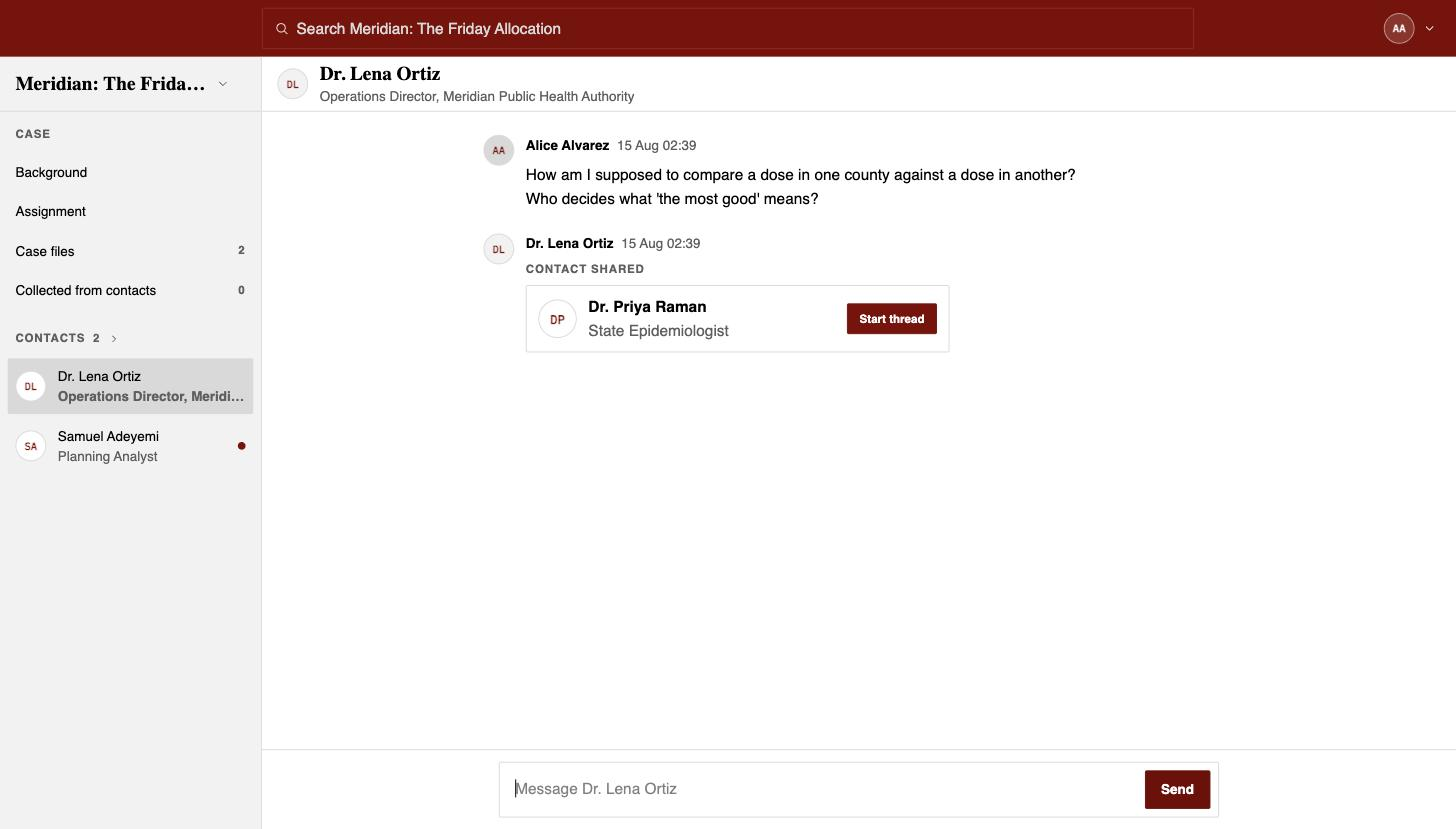
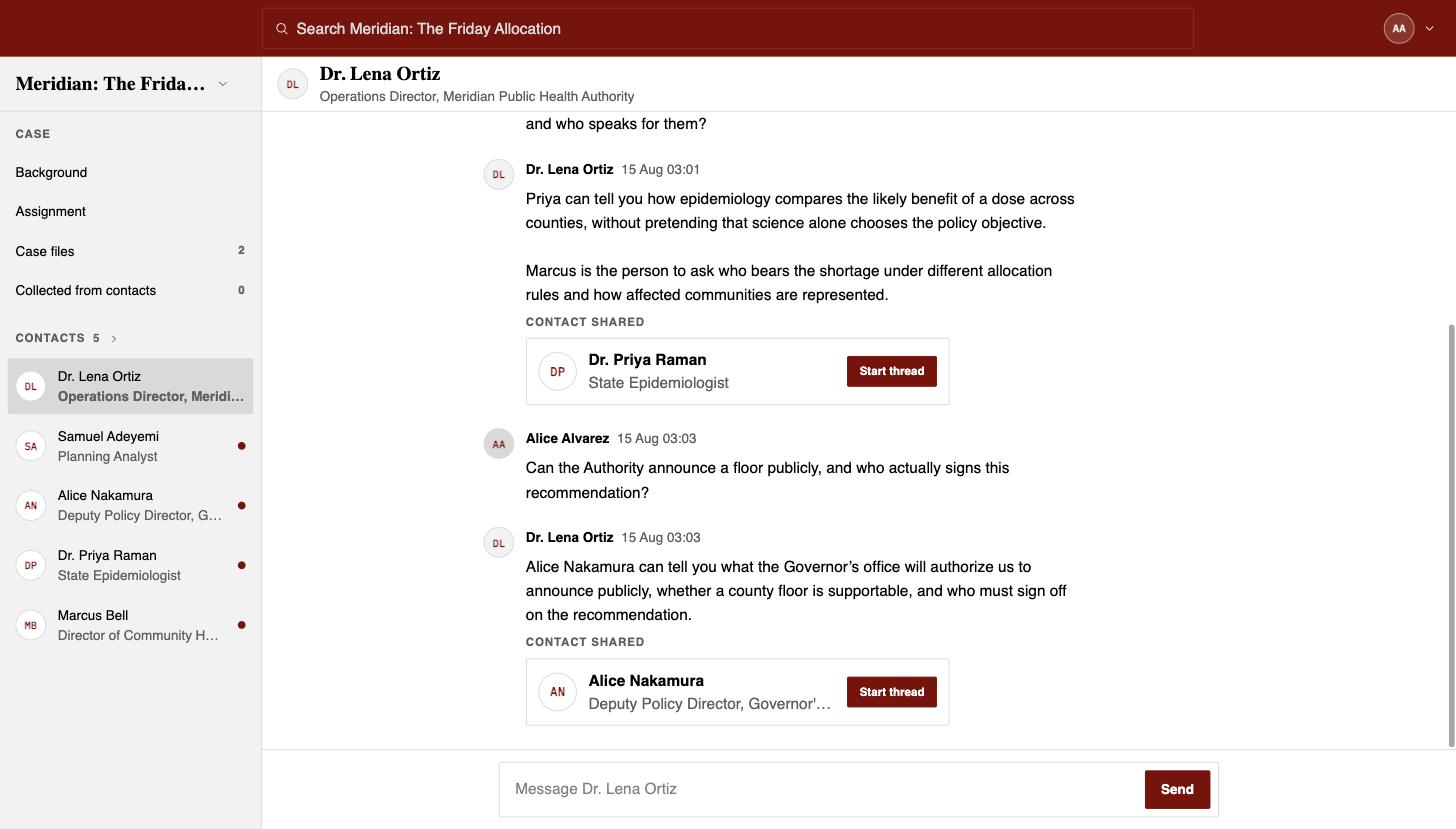
Let a contact say why they are sending you on
The introduce tool asks for a sentence in the contact's own voice, and
nothing ever read it back out. A model that introduces someone usually
writes no prose beside the tool call, so the student got a contact card
under an empty bubble -- a handoff from nobody, with no reason to prefer
the new person over the seven other things they could do next.

That sentence is now the reply when there is no prose. Prose still wins
when the contact wrote any, because saying it twice reads worse than
either alone. Both provider adapters carry the reasons through, so the
rule lives in one place: Reply#spoken_text, which the student transcript
and the author's rehearsal both go through.

Fixing that surfaced a second one. A message carries a single contact
card, and it was filled from the first id in the reply. Contacts re-name
people the student already knows constantly, so a turn that mentioned an
old colleague and introduced a new one drew a card for the old one and
none for the new -- the one turn where something was actually earned was
the one that looked like nothing happened. The card now prefers a contact
this turn genuinely introduced.

A turn introducing two new people still shows only the first. That needs
the message to hold many introductions rather than one, which is a
migration, and is worth doing separately.

Carries the default model with it, because the screenshots in the guide
had to be retaken and these are what they show. The deployment default --
[…]

diff --git a/test/models/contact_reply_test.rb b/test/models/contact_reply_test.rb
@@ -161,6 +161,52 @@ class ContactReplyTest < ActiveSupport::TestCase
     assert_equal @priya, message.introduced_contact
   end
 
+  # The introduce tool asks for a sentence in the contact's own voice, and a
+  # model that introduces someone often writes no prose beside it. Dropping that
+  # sentence is what left a contact card sitting under an empty bubble, as
+  # though the handoff arrived from nobody.
+  test "an introduction with no prose speaks the reason the contact gave" do
+    Referral.create!(referring_contact: @dana, referred_contact: @priya, condition: "When asked.")
+    ask "Who else?"
+
+    responder = wordless(introduced_contact_ids: [@priya.id],
+      introduction_reasons: ["Priya ran the plant when this started; go and ask her."])
+    message = ContactReply.new(@conversation, responder: responder).generate!
+
+    assert_equal "Priya ran the plant when this started; go and ask her.", message.body
+    assert_equal @priya, message.introduced_contact
+  end
+
+  # Contacts re-name people the student already knows all the time, and a turn
+  # that does both has one card to spend. Spending it on the colleague already
+  # in the directory hides the only thing that was actually earned.
+  test "the card names somebody new rather than somebody already met" do
+    marcus = Contact.create!(full_name: "Marcus Bell", role_title: "Director of Community Health Equity",
+      system_prompt: "You know who gets left short.", case_study: @case_study)
+    Referral.create!(referring_contact: @dana, referred_contact: @priya, condition: "When asked.")
+    Referral.create!(referring_contact: @dana, referred_contact: marcus, condition: "When fairness comes up.")
+    Introduction.create!(enrollment: @conversation.enrollment, contact: @priya, introducing_contact: @dana)
+    ask "Who is left short?"
+
+    responder = wordless(introduced_contact_ids: [@priya.id, marcus.id])
+    message = ContactReply.new(@conversation, responder: responder).generate!
+
+    assert_equal marcus, message.introduced_contact,
+      "Priya was already in the directory; Marcus is what this turn earned"
+  end
+
+  test "prose the contact wrote wins over the tool's reason" do
+    Referral.create!(referring_contact: @dana, referred_contact: @priya, condition: "When asked.")
+    ask "Who else?"
+
+    responder = spoken("Margin fell because we changed over more often.",
+      introduced_contact_ids: [@priya.id], introduction_reasons: ["Go and ask Priya."])
+    message = ContactReply.new(@conversation, responder: responder).generate!
+
+    assert_equal "Margin fell because we changed over more often.", message.body,
+      "saying it twice reads worse than either on its own"
+  end
+
   test "a turn that carried nothing at all still says so" do
     ask "Anything?"
 
@@ -171,13 +217,19 @@ class ContactReplyTest < ActiveSupport::TestCase
 
   private
 
-  def wordless(introduced_contact_ids: [], shared_document_ids: [])
+  def wordless(introduced_contact_ids: [], shared_document_ids: [], introduction_reasons: [])
+    spoken("", introduced_contact_ids: introduced_contact_ids,
+      shared_document_ids: shared_document_ids, introduction_reasons: introduction_reasons)
+  end
+
+  def spoken(text, introduced_contact_ids: [], shared_document_ids: [], introduction_reasons: [])
     Class.new {
       def initialize(reply) = @reply = reply
 
       def reply(briefing:, history:, on_delta: nil) = @reply
     }.new(Responder::Reply.new(
-      text: "", introduced_contact_ids: introduced_contact_ids, shared_document_ids: shared_document_ids
+      text: text, introduced_contact_ids: introduced_contact_ids,
+      shared_document_ids: shared_document_ids, introduction_reasons: introduction_reasons
     ))
   end
 end

diff --git a/app/models/responder.rb b/app/models/responder.rb
@@ -16,15 +16,33 @@ module Responder
   # What a contact said, plus the structured things they did while saying it.
   # The id lists are normalized here so no adapter can hand the pipeline a nil,
   # and every caller can iterate without guarding.
-  Reply = Data.define(:text, :introduced_contact_ids, :shared_document_ids, :usage, :raw) do
-    def initialize(text:, introduced_contact_ids: [], shared_document_ids: [], usage: NULL_USAGE, raw: nil)
+  Reply = Data.define(:text, :introduced_contact_ids, :shared_document_ids,
+    :introduction_reasons, :usage, :raw) do
+    def initialize(text:, introduced_contact_ids: [], shared_document_ids: [],
+      introduction_reasons: [], usage: NULL_USAGE, raw: nil)
       super(
         text: text.to_s,
         introduced_contact_ids: Array(introduced_contact_ids).compact.uniq,
         shared_document_ids: Array(shared_document_ids).compact.uniq,
+        introduction_reasons: Array(introduction_reasons).map { |line| line.to_s.strip }.reject(&:empty?),
         usage: usage,
         raw: raw
       )
+    end
+
+    # What this person actually said out loud.
+    #
+    # Introducing someone is a tool call, and a model that makes one often
+    # writes no prose alongside it — which used to reach the student as a
+    # contact card under an empty bubble, as though the handoff came from
+    # nowhere. The tool asks for a sentence in the contact's own voice for
+    # exactly this reason, so when there is no prose, that sentence is the
+    # reply. Prose wins when there is any: saying it twice is worse than
+    # either.
+    def spoken_text
+      return text if text.present?
+
+      introduction_reasons.join("\n\n")
     end
   end
 
@@ -40,13 +58,25 @@ module Responder
     "fake" => ->(**) { Fake.new }
   }.freeze
 
-  DEFAULT_ADAPTER = "anthropic".freeze
+  DEFAULT_ADAPTER = "openai".freeze
 
   class << self
     attr_writer :current
 
+    # The deployment default: the catalogue's default model at its stated
+    # effort, as long as RESPONDER still names that model's provider. Flipping
+    # RESPONDER to the other provider is a wholesale escape hatch, and it gets
+    # that provider's own defaults rather than an effort chosen for a different
+    # model.
     def current
-      @current ||= build(configured_name)
+      @current ||= begin
+        entry = ModelCatalogue.default
+        if entry && configured_name == entry.provider
+          build(entry.provider, model: entry.id, effort: ModelCatalogue::DEFAULT_EFFORT)
+        else
+          build(configured_name)
+        end
+      end
     end
 
     # Swap the responder for the duration of a block. Used by tests that want

diff --git a/app/models/contact_reply.rb b/app/models/contact_reply.rb
@@ -94,7 +94,7 @@ class ContactReply
   # file card tells the student the reply failed when they just got what they
   # asked for. Only a turn that carried nothing at all gets that.
   def body_for(reply)
-    return reply.text if reply.text.present?
+    return reply.spoken_text if reply.spoken_text.present?
     return "" if reply.introduced_contact_ids.any? || reply.shared_document_ids.any?
 
     I18n.t("threads.no_answer")
@@ -106,16 +106,26 @@ class ContactReply
   # narrows what can be recorded.
   def record_introductions(reply, briefing, message)
     allowed = briefing.referable_contacts.index_by(&:id)
+    newly_met = []
+    first_named = nil
 
     reply.introduced_contact_ids.each do |contact_id|
       introduced = allowed[contact_id]
       raise RuleViolation, "#{contact.full_name} cannot introduce #{contact_id}" if introduced.nil?
 
-      Introduction.find_or_create_by!(enrollment: enrollment, contact: introduced) do |introduction|
-        introduction.introducing_contact = contact
+      first_named ||= introduced
+      introduction = Introduction.find_or_create_by!(enrollment: enrollment, contact: introduced) do |row|
+        row.introducing_contact = contact
       end
-      message.update!(introduced_contact: introduced) if message.introduced_contact_id.nil?
+      newly_met << introduced if introduction.previously_new_record?
     end
+
+    # The message carries one contact card, so it should name somebody the
+    # student has not already met. Naming whoever came first drew a card for an
+    # old colleague and none for the new one on any turn that mentioned both,
+    # which reads as though nothing was earned.
+    card = newly_met.first || first_named
+    message.update!(introduced_contact: card) if card
   end
 
   def record_shares(reply, briefing, message)

diff --git a/app/models/responder/open_ai.rb b/app/models/responder/open_ai.rb
@@ -13,7 +13,10 @@ module Responder
   #   whose `arguments` is a JSON *string*.
   # - Cached tokens live at `usage.input_tokens_details.cached_tokens`.
   class OpenAI
-    MODEL = "gpt-5.6".freeze
+    # Only reached by a caller that builds this adapter without naming a model;
+    # the deployment default comes from the catalogue. Kept in step with it so
+    # no path can land on an id no entry describes.
+    MODEL = ModelCatalogue::DEFAULT_ID
 
     def initialize(client: nil, model: MODEL, effort: nil)
       @client = client
@@ -94,14 +97,15 @@ module Responder
 
       Reply.new(
         text: response.output_text.to_s.strip,
-        introduced_contact_ids: ids_from(calls, ContactBriefing::INTRODUCE_TOOL, :contact_id),
-        shared_document_ids: ids_from(calls, ContactBriefing::SHARE_TOOL, :document_ids),
+        introduced_contact_ids: values_from(calls, ContactBriefing::INTRODUCE_TOOL, :contact_id),
+        shared_document_ids: values_from(calls, ContactBriefing::SHARE_TOOL, :document_ids),
+        introduction_reasons: values_from(calls, ContactBriefing::INTRODUCE_TOOL, :reason),
         usage: usage_from(response.usage),
         raw: response.to_h
       )
     end
 
-    def ids_from(calls, tool_name, key)
+    def values_from(calls, tool_name, key)
       calls
         .select { |call| call.name.to_s == tool_name }
         .flat_map { |call| Array(arguments_for(call)[key]) }

diff --git a/app/models/responder/fake.rb b/app/models/responder/fake.rb
@@ -42,10 +42,13 @@ module Responder
       # including the join behavior that decides whether spaces survive.
       text.scan(/\S+\s*/).each { |chunk| on_delta.call(chunk) } if on_delta
 
+      referrals = triggered_referrals(briefing, prompt)
+
       Reply.new(
         text: text,
-        introduced_contact_ids: triggered_referral_ids(briefing, prompt),
+        introduced_contact_ids: referrals.map(&:referred_contact_id),
         shared_document_ids: triggered_document_ids(briefing, prompt),
+        introduction_reasons: referrals.map { |r| "You want #{r.referred_contact.full_name} for that." },
         usage: Usage.new(
           input_tokens: 100, output_tokens: 40,
           cache_read_tokens: (history.size > 1) ? 80 : 0,
@@ -62,10 +65,8 @@ module Responder
       "Let me take that one."
     end
 
-    def triggered_referral_ids(briefing, prompt)
-      briefing.send(:referrals).filter_map do |referral|
-        referral.referred_contact_id if matches?(referral.condition, prompt)
-      end
+    def triggered_referrals(briefing, prompt)
+      briefing.send(:referrals).select { |referral| matches?(referral.condition, prompt) }
     end
 
     def triggered_document_ids(briefing, prompt)

diff --git a/test/models/model_catalogue_test.rb b/test/models/model_catalogue_test.rb
@@ -11,6 +11,20 @@ class ModelCatalogueTest < ActiveSupport::TestCase
     end
   end
 
+  # Most stakeholders will never have a model picked for them, so the default is
+  # the entry that answers most often. A default naming an id no entry describes
+  # is one the cost report cannot price and the effort list cannot validate.
+  test "the deployment default is a real catalogued model" do
+    assert_not_nil ModelCatalogue.default, "#{ModelCatalogue::DEFAULT_ID} is not in the catalogue"
+    assert_equal Responder::DEFAULT_ADAPTER, ModelCatalogue.default.provider,
+      "RESPONDER's default provider and the default model must not drift apart"
+  end
+
+  test "the default effort is one the default model accepts" do
+    assert_includes ModelCatalogue.efforts_for(ModelCatalogue::DEFAULT_ID),
+      ModelCatalogue::DEFAULT_EFFORT
+  end
+
   test "the model implies its provider, so the two cannot disagree" do
     assert_equal "anthropic", ModelCatalogue.find("claude-opus-5").provider
     assert_equal "openai", ModelCatalogue.find("gpt-5.6-luna").provider

diff --git a/app/models/responder/anthropic.rb b/app/models/responder/anthropic.rb
@@ -96,14 +96,15 @@ module Responder
 
       Reply.new(
         text: text,
-        introduced_contact_ids: ids_from(tool_uses, ContactBriefing::INTRODUCE_TOOL, :contact_id),
-        shared_document_ids: ids_from(tool_uses, ContactBriefing::SHARE_TOOL, :document_ids),
+        introduced_contact_ids: values_from(tool_uses, ContactBriefing::INTRODUCE_TOOL, :contact_id),
+        shared_document_ids: values_from(tool_uses, ContactBriefing::SHARE_TOOL, :document_ids),
+        introduction_reasons: values_from(tool_uses, ContactBriefing::INTRODUCE_TOOL, :reason),
         usage: usage_from(message.usage),
         raw: message.to_h
       )
     end
 
-    def ids_from(tool_uses, tool_name, key)
+    def values_from(tool_uses, tool_name, key)
       tool_uses
         .select { |block| block.name.to_s == tool_name }
         .flat_map { |block| Array(symbolize(block.input)[key]) }

diff --git a/app/models/model_catalogue.rb b/app/models/model_catalogue.rb
@@ -34,10 +34,22 @@ class ModelCatalogue
 
   BY_ID = ENTRIES.index_by(&:id).freeze
 
+  # What answers as a stakeholder whose author has not picked anything.
+  #
+  # It lives here rather than in an adapter because the deployment default is a
+  # model like any other: it should have a known price, a checked id, and an
+  # effort the catalogue agrees that model accepts. The previous default was a
+  # bare id no entry described, so the commonest case in the app was the one
+  # nothing could report on.
+  DEFAULT_ID = "gpt-5.6-sol".freeze
+  DEFAULT_EFFORT = "high".freeze
+
   class << self
     def all = ENTRIES
 
     def find(id) = BY_ID[id.to_s]
+
+    def default = find(DEFAULT_ID)
 
     def ids = BY_ID.keys
 

diff --git a/app/models/test_drive.rb b/app/models/test_drive.rb
@@ -38,7 +38,7 @@ class TestDrive
   def answer(reply)
     append(
       role: "contact",
-      text: reply.text,
+      text: reply.spoken_text,
       introduced_ids: reply.introduced_contact_ids,
       shared_ids: reply.shared_document_ids
     )

diff --git a/docs/testing-guide.md b/docs/testing-guide.md
@@ -96,9 +96,10 @@ them the whole situation, and outsiders who know everything are why cases feel f
 
 ![Model and reasoning effort, the case-background toggle, and the list of people this stakeholder can introduce](images/who-answers-and-referrals.jpg)
 
-**Who answers as this person** is per stakeholder. Leave it on the deployment default unless you
-are deliberately comparing — a sharper model for the one stakeholder who has to hold a difficult
-line, a cheaper one for a gatekeeper. Cost is recorded per stakeholder either way.
+**Who answers as this person** is per stakeholder. The deployment default is GPT-5.6 Sol at high
+reasoning effort; leave it there unless you are deliberately comparing — a different model for the
+one stakeholder who has to hold a difficult line, say. Cost is recorded per stakeholder either
+way, so a comparison is answerable afterwards.
 
 ---
 
@@ -166,10 +167,12 @@ Publish, then use **Preview as student** and join with your own case code.
 
 Seven people in the cast; the student starts with two. The rest is the case.
 
-![An introduction arriving in the thread as a contact card](images/earned-introduction.jpg)
+![An introduction arriving in the thread: the stakeholder says why, then a contact card](images/earned-introduction.jpg)
 
-That card is the whole design in one frame: the student asked how to compare a dose in one county
-against a dose in another, and got handed the person who can answer it.
+That is the whole design in one frame. The student asked whether the Authority could announce a
+floor and who signs the recommendation; Dr. Ortiz said why the Governor's office is the place to
+take that, and the card followed. The directory went from two people to five over the course of
+the conversation, and every one of them was earned by a question.
 
 ---
 
@@ -195,8 +198,6 @@ whether this is worth class time.
 
 Please do not spend time reporting these — they are on the list already.
 
-- **An introduction can arrive with no words.** The stakeholder is asked for a one-sentence
-  reason when they introduce someone; nothing displays it yet, so the card can turn up bare.
 - **`/privacy` and `/terms` are placeholder text.** Do not read anything into them.
 - **No error tracking yet.** If you hit an error page, screenshot it — we will not see it
   otherwise.
